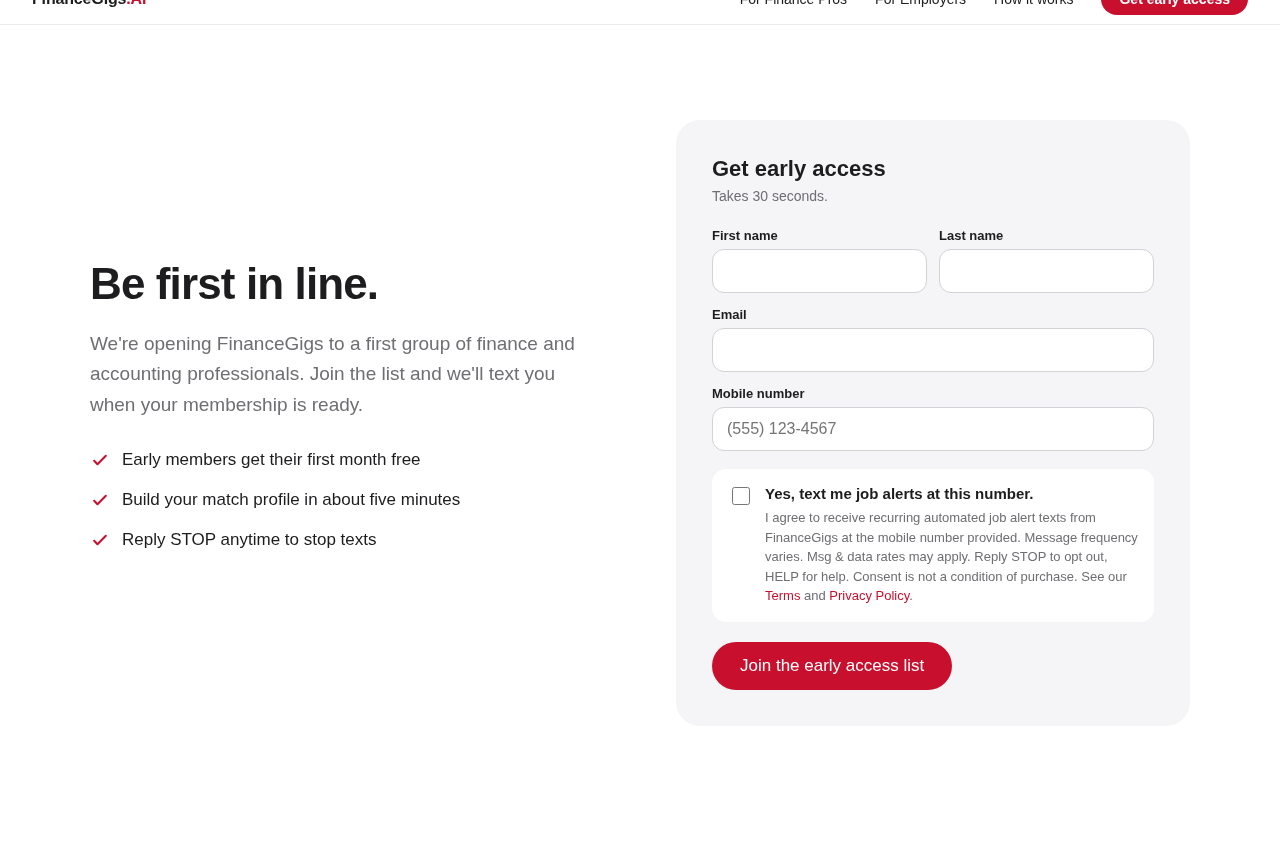
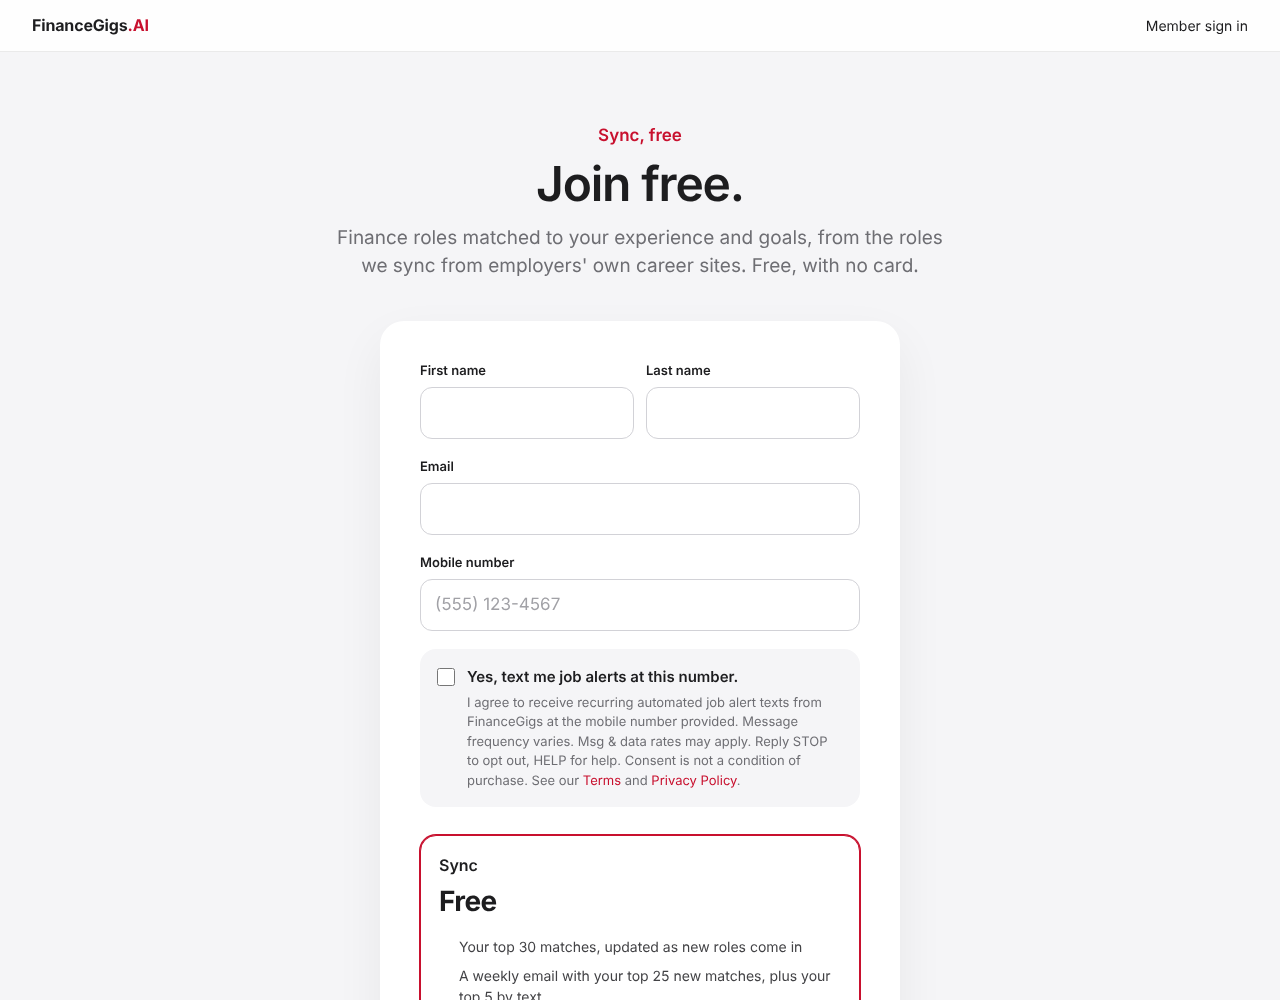
Launch updates: remove early access form, add project roles for employers, LinkedIn images (#5)
* Remove the early access form now that sign-ups are open

FinanceGigs sign-ups and Sync+ checkout are live at app.financegigs.ai/join, so the
early access list collected names nothing followed up on. The opt-in proof for the
toll-free verification is now a screenshot of the app's join page, which carries the
same SMS consent wording.

Claude-Session: https://claude.ai/code/session_013AfgZWwVhoQQNHsnuomH5w

* Add the FinanceGigs LinkedIn page logo and cover image

Claude-Session: https://claude.ai/code/session_013AfgZWwVhoQQNHsnuomH5w

* Add the FinanceGigs LinkedIn launch post image

Claude-Session: https://claude.ai/code/session_013AfgZWwVhoQQNHsnuomH5w

* Employer page: add project, contract and fractional roles

Employers could not tell from the page that we match project work. A new section
describes it: the role goes only to members open to contract, consulting or
fractional work, interested members come with their hours and rate, and a project
role is $299 flat with no charge per candidate. Links to /post-a-role?type=project.
The pricing line points to it.

Claude-Session: https://claude.ai/code/session_013AfgZWwVhoQQNHsnuomH5w

---------

diff --git a/index.html b/index.html
@@ -164,7 +164,7 @@
   .split .body { font-size: 19px; line-height: 1.6; color: var(--muted); margin-bottom: 32px; }
   .checks { display: flex; flex-direction: column; gap: 16px; margin: 0 0 36px; padding: 0; list-style: none; }
   .checks li { display: flex; gap: 12px; align-items: flex-start; font-size: 17px; line-height: 1.4; }
-  .checks svg { flex-shrink: 0; margin-top: 2px; }
+  .checks svg { flex-shrink: 0; margin-top: 2px; color: var(--accent); }
 
   /* Pricing */
   .grid-4 { display: grid; grid-template-columns: repeat(4, minmax(0, 1fr)); gap: 20px; align-items: stretch; }
@@ -289,33 +289,6 @@
     .cta { padding: 80px 16px; }
   }
 
-  /* Early access form (kept from the original FinanceGigs page) */
-  :root { --tint: #fdeef0; }
-  .join { background: #ffffff; padding: 120px 24px; }
-  .join-grid { display: grid; grid-template-columns: minmax(0, 1fr) minmax(0, 1fr); gap: 72px; align-items: center; }
-  .join h2 { font-size: 44px; font-weight: 600; letter-spacing: -0.02em; margin-bottom: 20px; }
-  .join .body { font-size: 19px; line-height: 1.6; color: var(--muted); margin-bottom: 28px; }
-  .checks svg { color: var(--accent); }
-  .form { background: var(--soft); border-radius: 24px; padding: 36px; }
-  .form h3 { font-size: 22px; font-weight: 600; margin-bottom: 6px; }
-  .form .fine { font-size: 14px; color: var(--muted); margin-bottom: 24px; }
-  .form .btn { border: none; cursor: pointer; font-family: inherit; }
-  .row2 { display: grid; grid-template-columns: minmax(0, 1fr) minmax(0, 1fr); gap: 12px; }
-  label.f { display: block; font-size: 13px; font-weight: 600; margin-bottom: 6px; }
-  .form input[type=text], .form input[type=email], .form input[type=tel] { width: 100%; box-sizing: border-box; font: inherit; font-size: 16px; padding: 12px 14px; border: 1px solid #d2d2d7; border-radius: 12px; margin-bottom: 14px; }
-  .form input:focus { outline: 2px solid var(--accent); outline-offset: 1px; border-color: transparent; }
-  .consent { display: flex; gap: 12px; align-items: flex-start; background: #ffffff; border-radius: 14px; padding: 16px; margin: 4px 0 20px; cursor: pointer; }
-  .consent input { width: 18px; height: 18px; margin-top: 2px; flex-shrink: 0; accent-color: var(--accent); }
-  .consent strong { display: block; font-size: 15px; margin-bottom: 6px; }
-  .consent span span { display: block; font-size: 13px; line-height: 1.5; color: var(--muted); }
-  .consent a { color: var(--accent); }
-  @media (max-width: 760px) {
-    .join { padding: 88px 16px; }
-    .join-grid { grid-template-columns: minmax(0, 1fr); gap: 40px; }
-    .join h2 { font-size: 32px; }
-    .form { padding: 24px; }
-    .row2 { grid-template-columns: minmax(0, 1fr); gap: 0; }
-  }
   .video-section { padding: 96px 24px 0; text-align: center; }
   .video-section h2 { font-size: 34px; line-height: 1.15; font-weight: 600; letter-spacing: -0.02em; margin-bottom: 12px; }
   .video-section p { font-size: 17px; color: var(--muted); margin: 0 auto 28px; max-width: 560px; }
@@ -519,38 +492,6 @@
         </div>
       </div>
       <p class="texts-note">The weekly text begins as soon as our text number is approved. Until then, your weekly matches come by email, and every match is on your Job Alerts page.</p>
-    </div>
-  </section>
-
-  <!-- Early access -->
-  <section id="join" class="join">
-    <div class="wrap join-grid">
-      <div>
-        <h2>Be first in line.</h2>
-        <p class="body">We're opening FinanceGigs to a first group of accounting and finance professionals. Join the list and we'll text you when your membership is ready.</p>
-        <ul class="checks">
-          <li><svg width="20" height="20" viewBox="0 0 24 24" fill="none" stroke="currentColor" stroke-width="2.5" stroke-linecap="round" stroke-linejoin="round" aria-hidden="true"><path d="M5 13l4 4L19 7"/></svg>Membership is free</li>
-          <li><svg width="20" height="20" viewBox="0 0 24 24" fill="none" stroke="currentColor" stroke-width="2.5" stroke-linecap="round" stroke-linejoin="round" aria-hidden="true"><path d="M5 13l4 4L19 7"/></svg>Build your match profile in about five minutes</li>
-          <li><svg width="20" height="20" viewBox="0 0 24 24" fill="none" stroke="currentColor" stroke-width="2.5" stroke-linecap="round" stroke-linejoin="round" aria-hidden="true"><path d="M5 13l4 4L19 7"/></svg>Reply STOP anytime to stop texts</li>
-        </ul>
-      </div>
-      <form class="form" name="early-access" method="POST" action="/thanks" data-netlify="true">
-        <input type="hidden" name="form-name" value="early-access">
-        <h3>Get early access</h3>
-        <p class="fine">Takes 30 seconds.</p>
-        <div class="row2">
-          <div><label class="f" for="first">First name</label><input id="first" name="first_name" type="text" autocomplete="given-name" required></div>
-          <div><label class="f" for="last">Last name</label><input id="last" name="last_name" type="text" autocomplete="family-name" required></div>
-        </div>
-        <label class="f" for="email">Email</label><input id="email" name="email" type="email" autocomplete="email" required>
-        <label class="f" for="mobile">Mobile number</label><input id="mobile" name="mobile" type="tel" autocomplete="tel" placeholder="(555) 123-4567">
-        <label class="consent" for="sms">
-          <input id="sms" name="sms_consent" type="checkbox" value="yes">
-          <span><strong>Yes, text me job alerts at this number.</strong>
-          <span>I agree to receive recurring automated job alert texts from FinanceGigs at the mobile number provided. Message frequency varies. Msg &amp; data rates may apply. Reply STOP to opt out, HELP for help. Consent is not a condition of purchase. See our <a href="/terms">Terms</a> and <a href="/privacy">Privacy Policy</a>.</span></span>
-        </label>
-        <button type="submit" class="btn btn-primary">Join the early access list</button>
-      </form>
     </div>
   </section>
 

diff --git a/employers.html b/employers.html
@@ -437,7 +437,7 @@
   <section id="pricing" class="section" style="border-top: 1px solid var(--line);">
     <div class="wrap">
       <h2 class="section-title">Pay for reach, then for real interest.</h2>
-      <p class="section-sub">No monthly fees and no contracts. One role reaches every candidate pool you pick.</p>
+      <p class="section-sub">No monthly fees and no contracts. One role reaches every candidate pool you pick. Project, contract and fractional roles are <a href="#projects" style="color: var(--accent);">$299 flat</a>.</p>
       <div class="plan-grid">
         <div class="price">
           <div class="price-tag">Send your role</div>
@@ -465,6 +465,32 @@
         </div>
       </div>
       <p class="roi">A role with five interested, qualified candidates costs about $450 to $500, against $1,200 to $1,340 for a typical cost per hire. If one hire takes even <strong>1% out of a $50M operating cost base</strong>, that is $500,000 back to the business.</p>
+    </div>
+  </section>
+
+  <!-- Project, contract and fractional -->
+  <section id="projects" class="section section-soft">
+    <div class="wrap">
+      <h2 class="section-title">Need someone for a project?</h2>
+      <p class="section-sub">Interim controllers, month-end close help, audit and SOX support, system rollouts, a fractional CFO. Describe the work, and it goes to the finance professionals who told us they are open to project, contract or fractional work.</p>
+      <div class="grid-3">
+        <div class="card">
+          <div class="icon" aria-hidden="true"><svg width="22" height="22" viewBox="0 0 24 24" fill="none" stroke="#ffffff" stroke-width="2" stroke-linecap="round" stroke-linejoin="round"><circle cx="12" cy="8" r="4"/><path d="M4 21v-1a8 8 0 0 1 16 0v1"/></svg></div>
+          <h3>Members who want project work</h3>
+          <p>Members choose the work they are open to: contract, consulting, fractional or full time. Your project goes only to those who said yes to it.</p>
+        </div>
+        <div class="card">
+          <div class="icon" aria-hidden="true"><svg width="22" height="22" viewBox="0 0 24 24" fill="none" stroke="#ffffff" stroke-width="2" stroke-linecap="round" stroke-linejoin="round"><circle cx="12" cy="12" r="9"/><path d="M12 7v5l3 2"/></svg></div>
+          <h3>Hours and rate up front</h3>
+          <p>Set the length and hours a week. Members who are interested come to you with their availability and their rate, so you know where you stand from the first message.</p>
+        </div>
+        <div class="card">
+          <div class="icon" aria-hidden="true"><svg width="22" height="22" viewBox="0 0 24 24" fill="none" stroke="#ffffff" stroke-width="2" stroke-linecap="round" stroke-linejoin="round"><path d="M12 2v20"/><path d="M17 6H9.5a3.5 3.5 0 0 0 0 7h5a3.5 3.5 0 0 1 0 7H6"/></svg></div>
+          <h3>$299 flat</h3>
+          <p>One price for a project role, paid at checkout. It goes live at once, never posted publicly, and every interested member comes to you with no charge per candidate.</p>
+        </div>
+      </div>
+      <div style="text-align: center; margin-top: 40px;"><a href="https://app.financegigs.ai/post-a-role?type=project" class="btn btn-primary">Post a project role</a></div>
     </div>
   </section>
 

diff --git a/README.md b/README.md
@@ -1,13 +1,17 @@
 # FinanceGigs.ai marketing site
 
-Static site hosted on Netlify (project `financegigs`), linked to this repo since 2026-11-03: a merge to `main` publishes it. Pages: `index.html`, `employers.html`, `privacy.html`, `terms.html`, `thanks.html` (shown after the early access form, which Netlify Forms collects as `early-access`).
+Static site hosted on Netlify (project `financegigs`), linked to this repo since 2026-11-03: a merge to `main` publishes it. Pages: `index.html`, `employers.html`, `privacy.html`, `terms.html`, `thanks.html` (left from the early access form, which was removed on 2026-11-03 once sign-ups opened at app.financegigs.ai/join).
 
 Since November 2026 the pages are ported from the SupplyChainGigs site (github.com/mcadieux5252/supplychaingigs-site) with finance copy and the FinanceGigs red: free Sync and Sync+ pricing, join and sign-in links to app.financegigs.ai, and the employer page. When the SupplyChainGigs pages change, port the change here. `build.py` is the older generator and no longer matches these pages.
 
 `index.html` follows the ProcurementGigs.AI home page layout (procurement-gigs.com) with finance copy and the FinanceGigs red, and is edited directly. `privacy.html`, `terms.html` and `thanks.html` are still generated by `build.py`, which builds both InfoTechGigs and FinanceGigs from one template; edit the `BRANDS` entry or the template, run `python3 build.py`, and copy those three files for this brand into the repo root.
 
-The SMS consent wording on the home page, privacy policy and terms matches the Twilio toll-free verification. Keep it unchanged unless the verification is updated too.
+The SMS consent wording on the app's join page (app.financegigs.ai/join), privacy policy and terms matches the Twilio toll-free verification. Keep it unchanged unless the verification is updated too.
 
 ## Twilio
 
-Toll-free number: +1 866 576 6017 (bought Sep 2026, verification not yet submitted). When submitting, enter the registration manually with this site as the business website, and use `https://financegigs.ai/optin-proof.png` as the opt-in image.
+Toll-free number: +1 866 576 6017 (bought Sep 2026, verification not yet submitted). When submitting, enter the registration manually with this site as the business website, and use `https://financegigs.ai/optin-proof.png` as the opt-in image (a screenshot of app.financegigs.ai/join, taken 2026-11-03).
+
+## LinkedIn page images
+
+`linkedin/financegigs-linkedin-logo.png` (400 by 400) and `linkedin/financegigs-linkedin-banner.png` (4200 by 700, LinkedIn's cover size) are the FinanceGigs company page logo and cover, in the site's red and Inter type.
